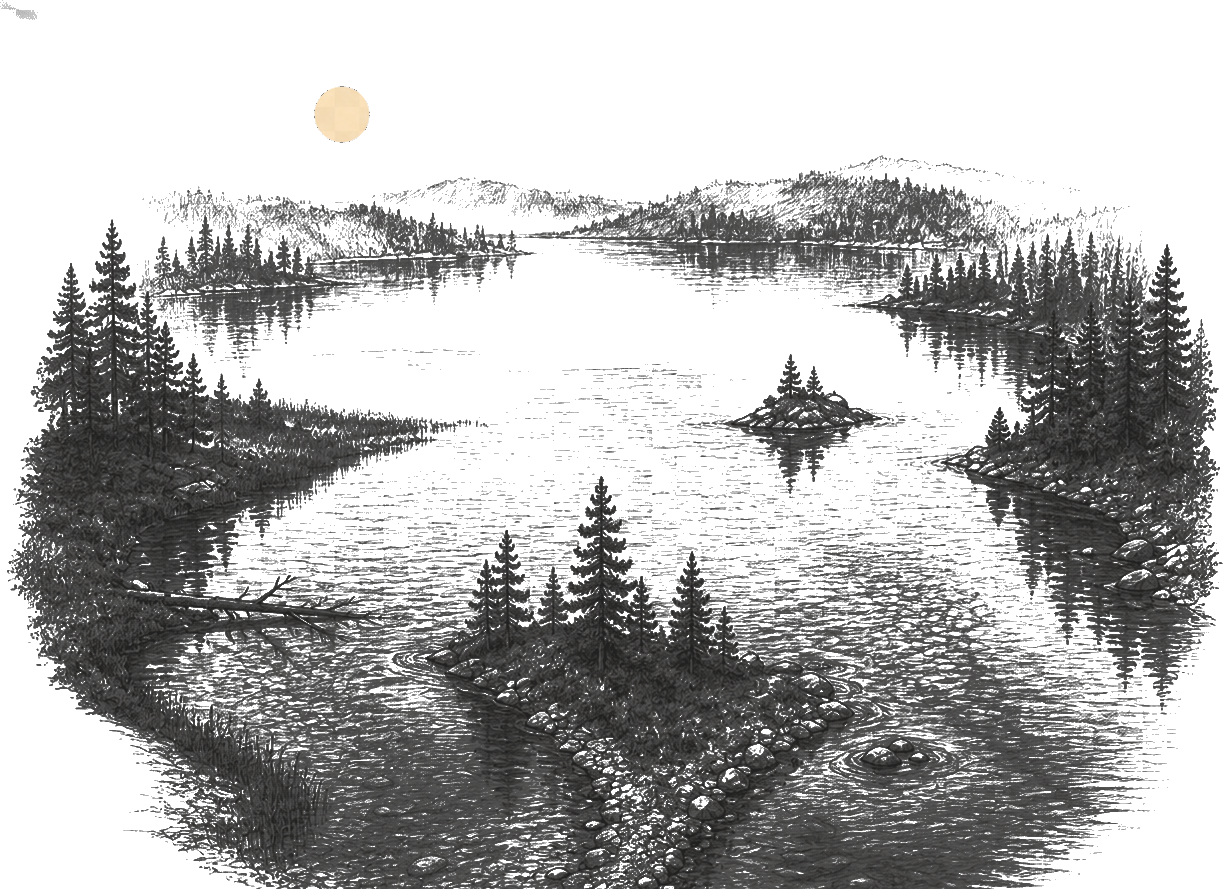
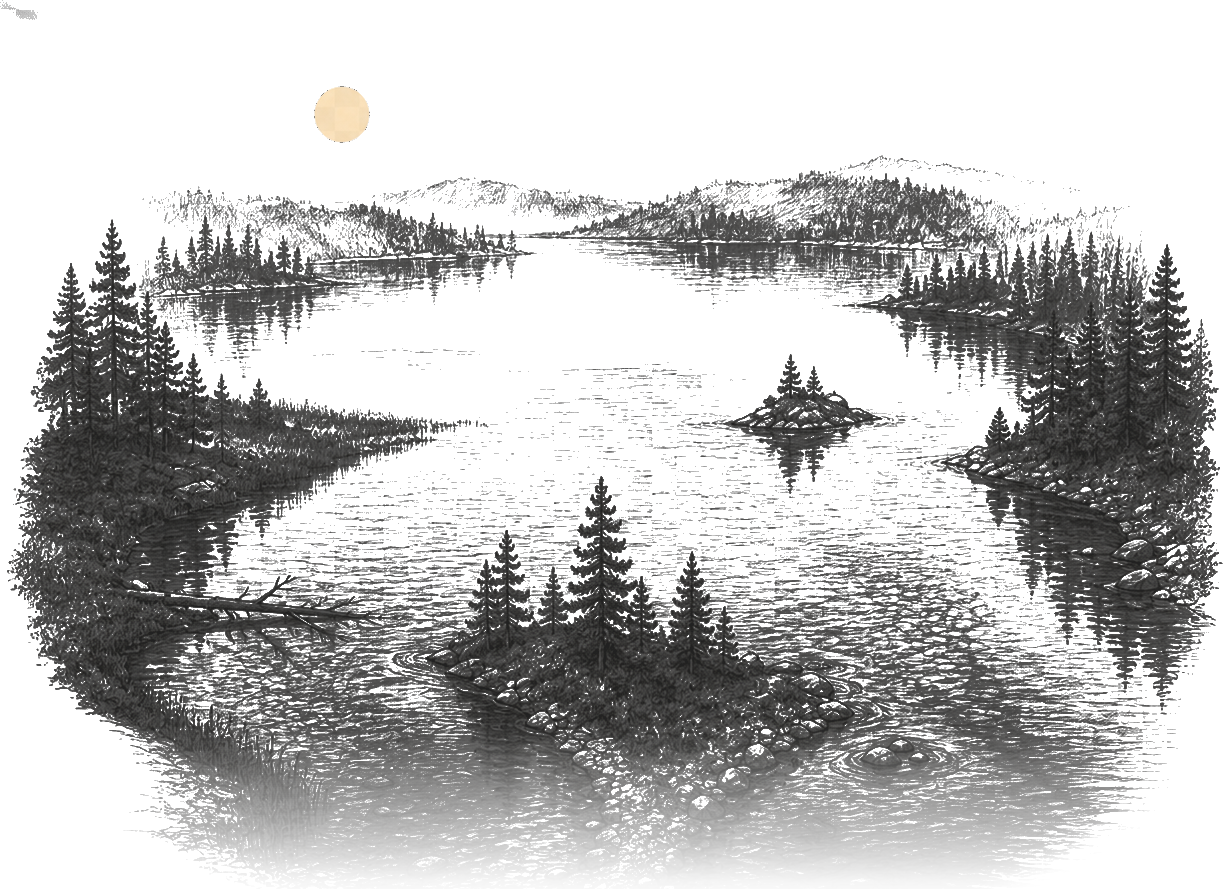
Round Water Read hero art edge

Changed region(s): [[0.1243, 0.82, 0.9321, 1.0]]

diff --git a/TightLinesAI/app/water-reader.tsx b/TightLinesAI/app/water-reader.tsx
@@ -1119,7 +1119,7 @@ const styles = StyleSheet.create({
     top: -14,
     width: 204,
     height: 128,
-    opacity: 0.34,
+    opacity: 0.48,
     zIndex: 0,
   },
 
